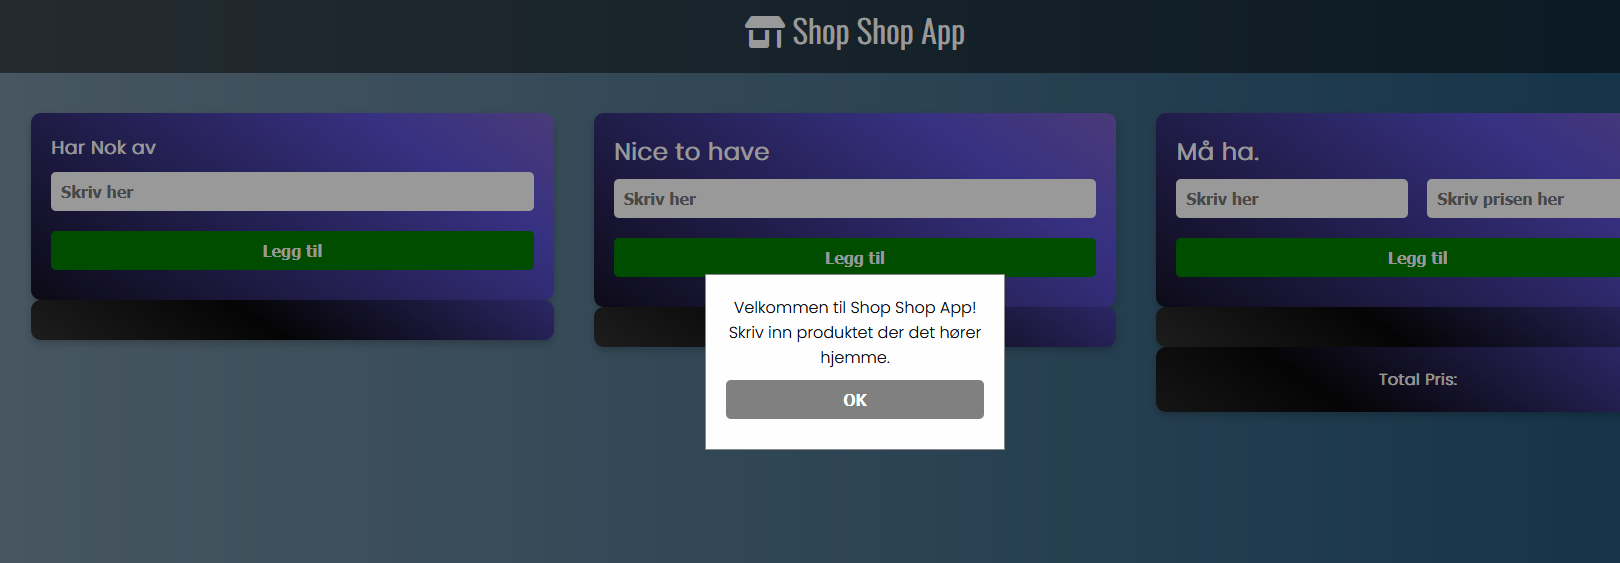
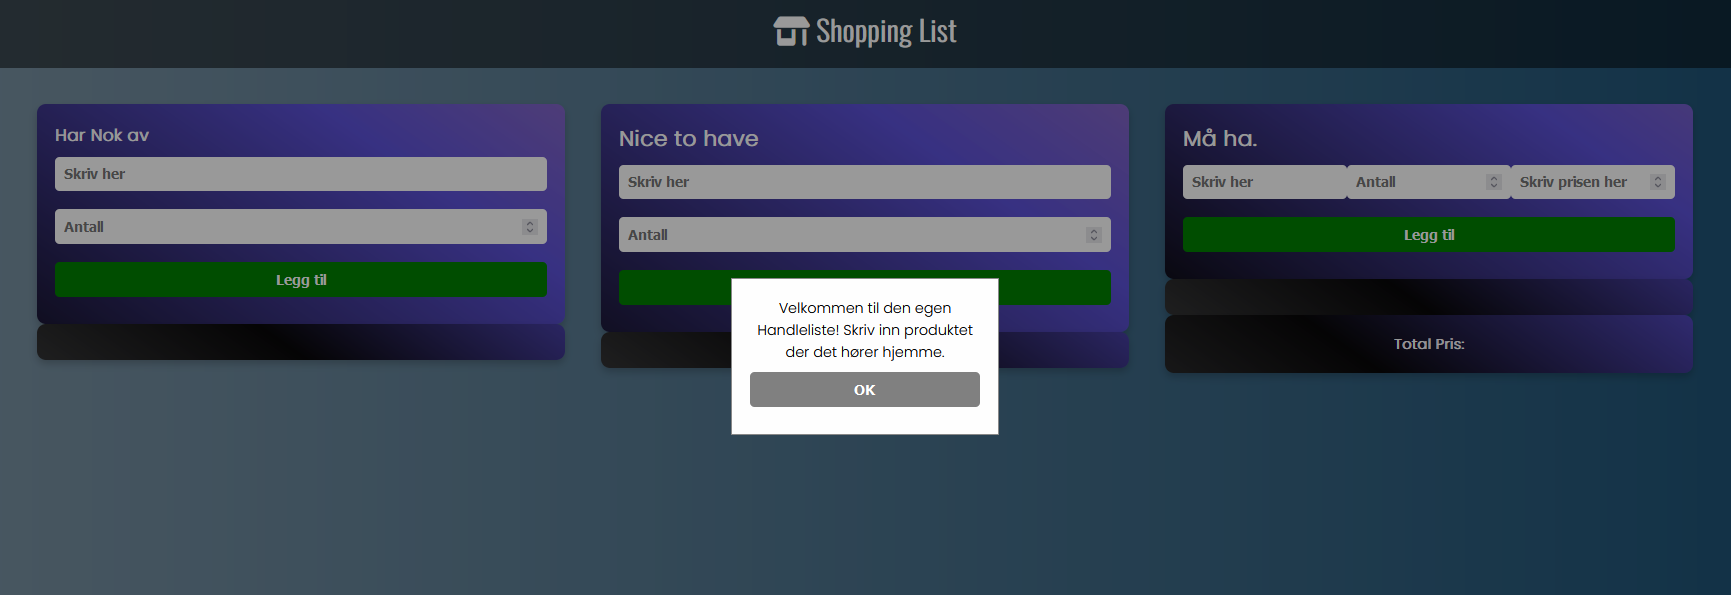
updated Readme

diff --git a/Index.html b/Index.html
@@ -7,11 +7,11 @@
   <meta name="description" content="ShopShopApp">
   <link rel="stylesheet" href="/Style.css">
   <link rel="stylesheet" href="https://cdnjs.cloudflare.com/ajax/libs/font-awesome/6.0.0/css/all.min.css">
-  <title>Shop Shop App</title>
+  <title>Shopping List</title>
 </head>
 <body>
   <header>
-    <h1><i class="fa-solid fa-shop"></i> Shop Shop App</h1>
+    <h1><i class="fa-solid fa-shop"></i> Shopping List</h1>
   </header>
   <div class="main">
     <div class="container-One">
@@ -55,7 +55,7 @@
   <!-- Modal for welcome message -->
   <div id="welcome-modal" class="modal">
     <div class="modal-content">
-      <p>Velkommen til Shop Shop App! Skriv inn produktet der det hører hjemme.</p>
+      <p>Velkommen til den egen Handleliste! Skriv inn produktet der det hører hjemme.</p>
       <button id="close-welcome" class="cancel-btn">OK</button>
     </div>
   </div>

diff --git a/README.md b/README.md
@@ -1,47 +1,52 @@
-# ShoppingList Mandatory assignment Javascript
-## MARS 2022!
-Velkommen til ShoppingList Mandatory assignment Javascript! Dette er et enkelt webapplikasjonsprosjekt hvor du kan administrere handlelister i forskjellige kategorier. Dette prosjektet er utviklet som en del av et JavaScript-arbeidskrav.
+# Shoppinglist App
 
-## Funksjoner
+## Project Description
 
-- **Legg til produkter i kategorier**: Administrer produkter i tre forskjellige kategorier: "Har Nok av", "Nice to have", og "Må ha".
-- **Slett produkter**: Fjern produkter fra listene når du ikke trenger dem lenger.
-- **Total prisberegning**: Beregn total prisen for produkter som må kjøpes.
+Shoppinglist App is a simple, user-friendly application for managing shopping lists. The application allows users to categorize items into three categories: "Have Enough", "Nice to Have", and "Must Have". Users can add, view, and delete items from these lists and see the total price for the "Must Have" items.
 
-## Installasjon
+### Table of Contents
+- [About the Project](#about-the-project)
+- [Features](#features)
+- [Installation](#installation)
+- [Usage](#usage)
+- [Preview](#preview)
+- [Technologies Used](#technologies-used)
 
-1. **Klon repositoriet**:
+### About the Project
+This project aims to simplify shopping list management by categorizing items based on priority and tracking the total cost of essential items.
 
-     git clone https://github.com/TommyS-NO/ShoppingList-Mandatory-assignment-Javascript.git
+### Features
+- **Categorized Lists**: Manage items in three categories: "Have Enough", "Nice to Have", and "Must Have".
+- **Add and Delete Items**: Easily add items with quantity and price, and remove them when no longer needed.
+- **Total Cost Calculation**: Automatically calculates and displays the total cost of items in the "Must Have" category.
 
-2. **Naviger til prosjektmappen**:
- 
-    cd <repo-navn>
+### Installation
+1. **Clone the repository**:
+    ```bash
+    git clone https://github.com/TommyS-NO/ShoppingList.git
+    cd ShoppingList
+    ```
+2. **Open `index.html`** in your preferred browser.
 
-3. **Åpne `index.html` i din nettleser**.
+### Usage
+#### Adding Items
+1. Open the application.
+2. Choose the appropriate category ("Have Enough", "Nice to Have", "Must Have").
+3. Enter the item name and quantity. For "Must Have" items, also enter the price.
+4. Click the **Add** button to add the item to the list.
 
-## Bruk
+#### Deleting Items
+1. Click the **Delete** button next to the item you want to remove.
+2. Confirm the deletion in the modal that appears.
 
-1. **Legg til produkter**:
-   - Skriv inn produktnavnet i riktig kategori og klikk "Legg til".
-   - For kategorien "Må ha", skriv også inn prisen for produktet.
+#### Viewing Total Cost
+1. The total cost for items in the "Must Have" category is displayed at the bottom of the respective section.
 
-2. **Slett produkter**:
-   - Klikk "Slett" ved siden av produktet og bekreft slettingen.
+### Preview
+![Preview 1](./images/preview_1.png)
+![Preview 2](./images/preview_2.png)
 
-## Teknologi
-
-- HTML
-- CSS
-- JavaScript
-
-## Forhåndsvisning
-
-![Shop Shop App Forhåndsvisning](images/preview_1.png)
-![Shop Shop App Forhåndsvisning](images/preview_2.png)
-
-## Lisens
-
-Dette prosjektet er lisensiert under MIT-lisensen.
-
----
+### Technologies Used
+- **HTML**
+- **CSS**
+- **JavaScript**
